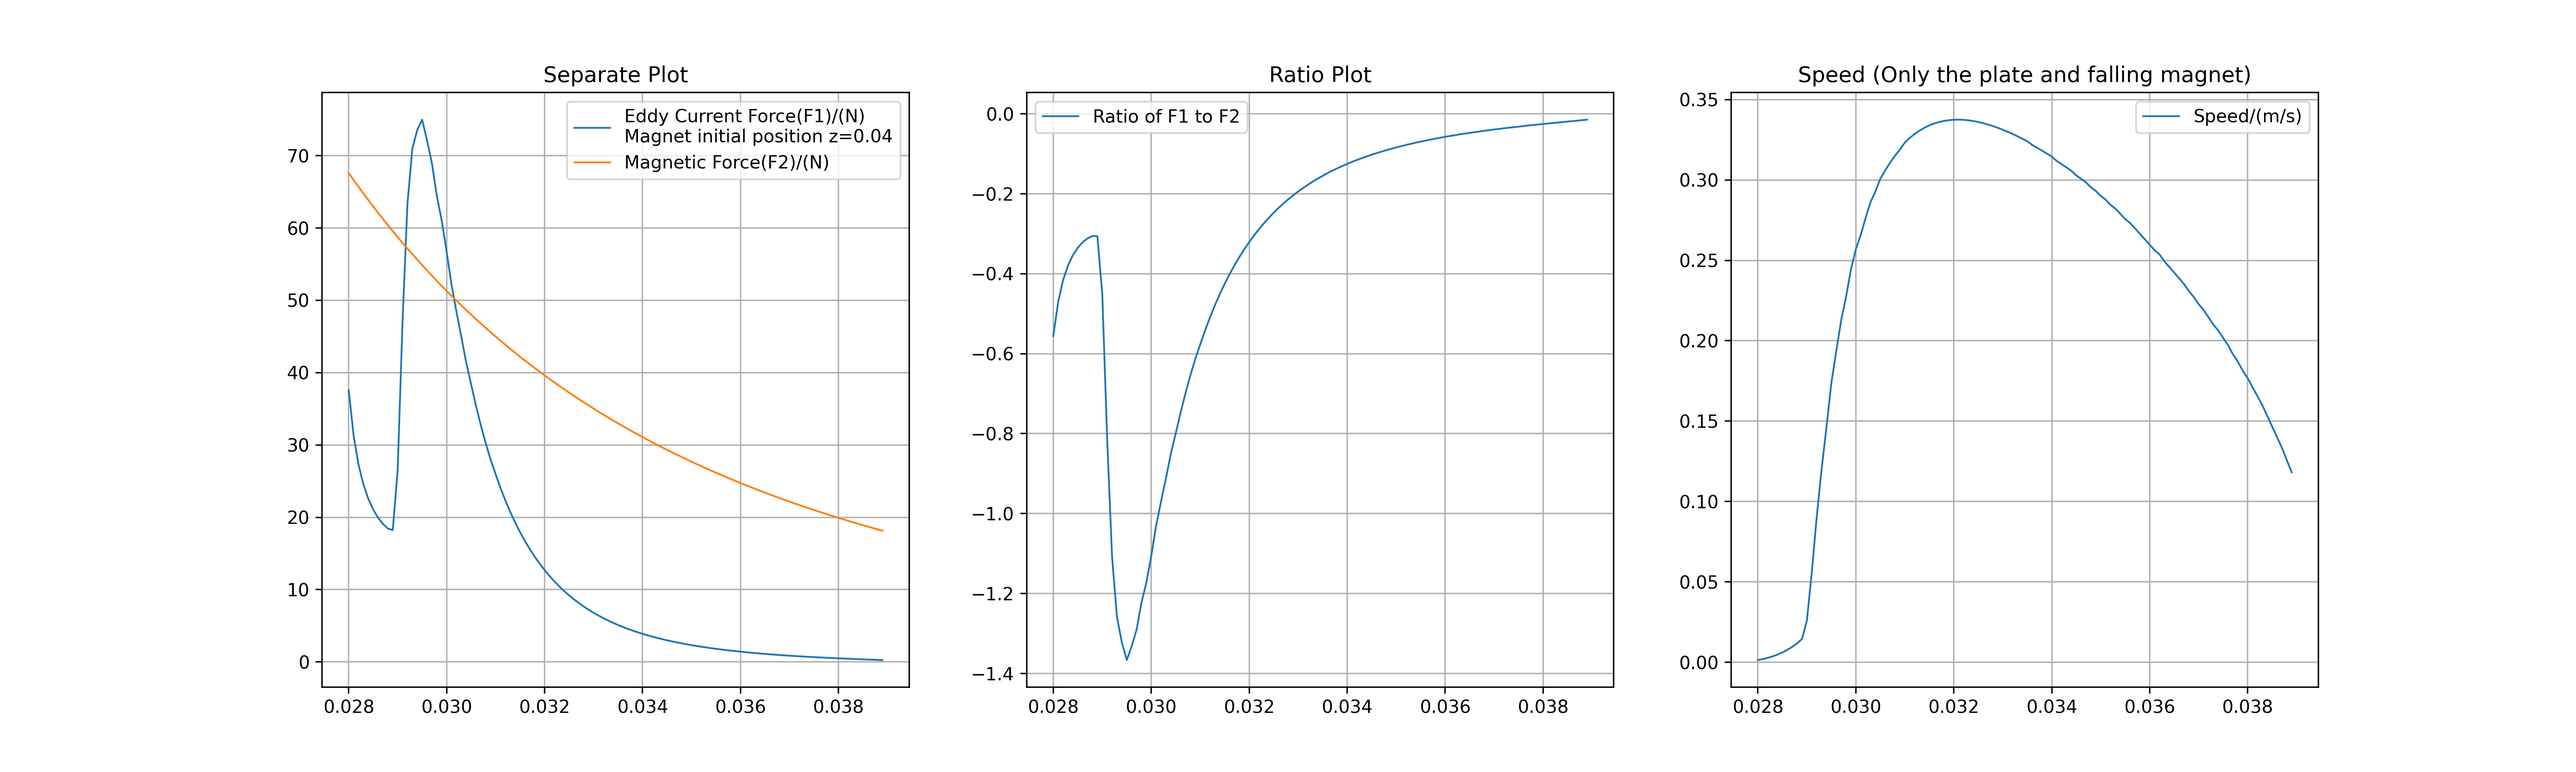
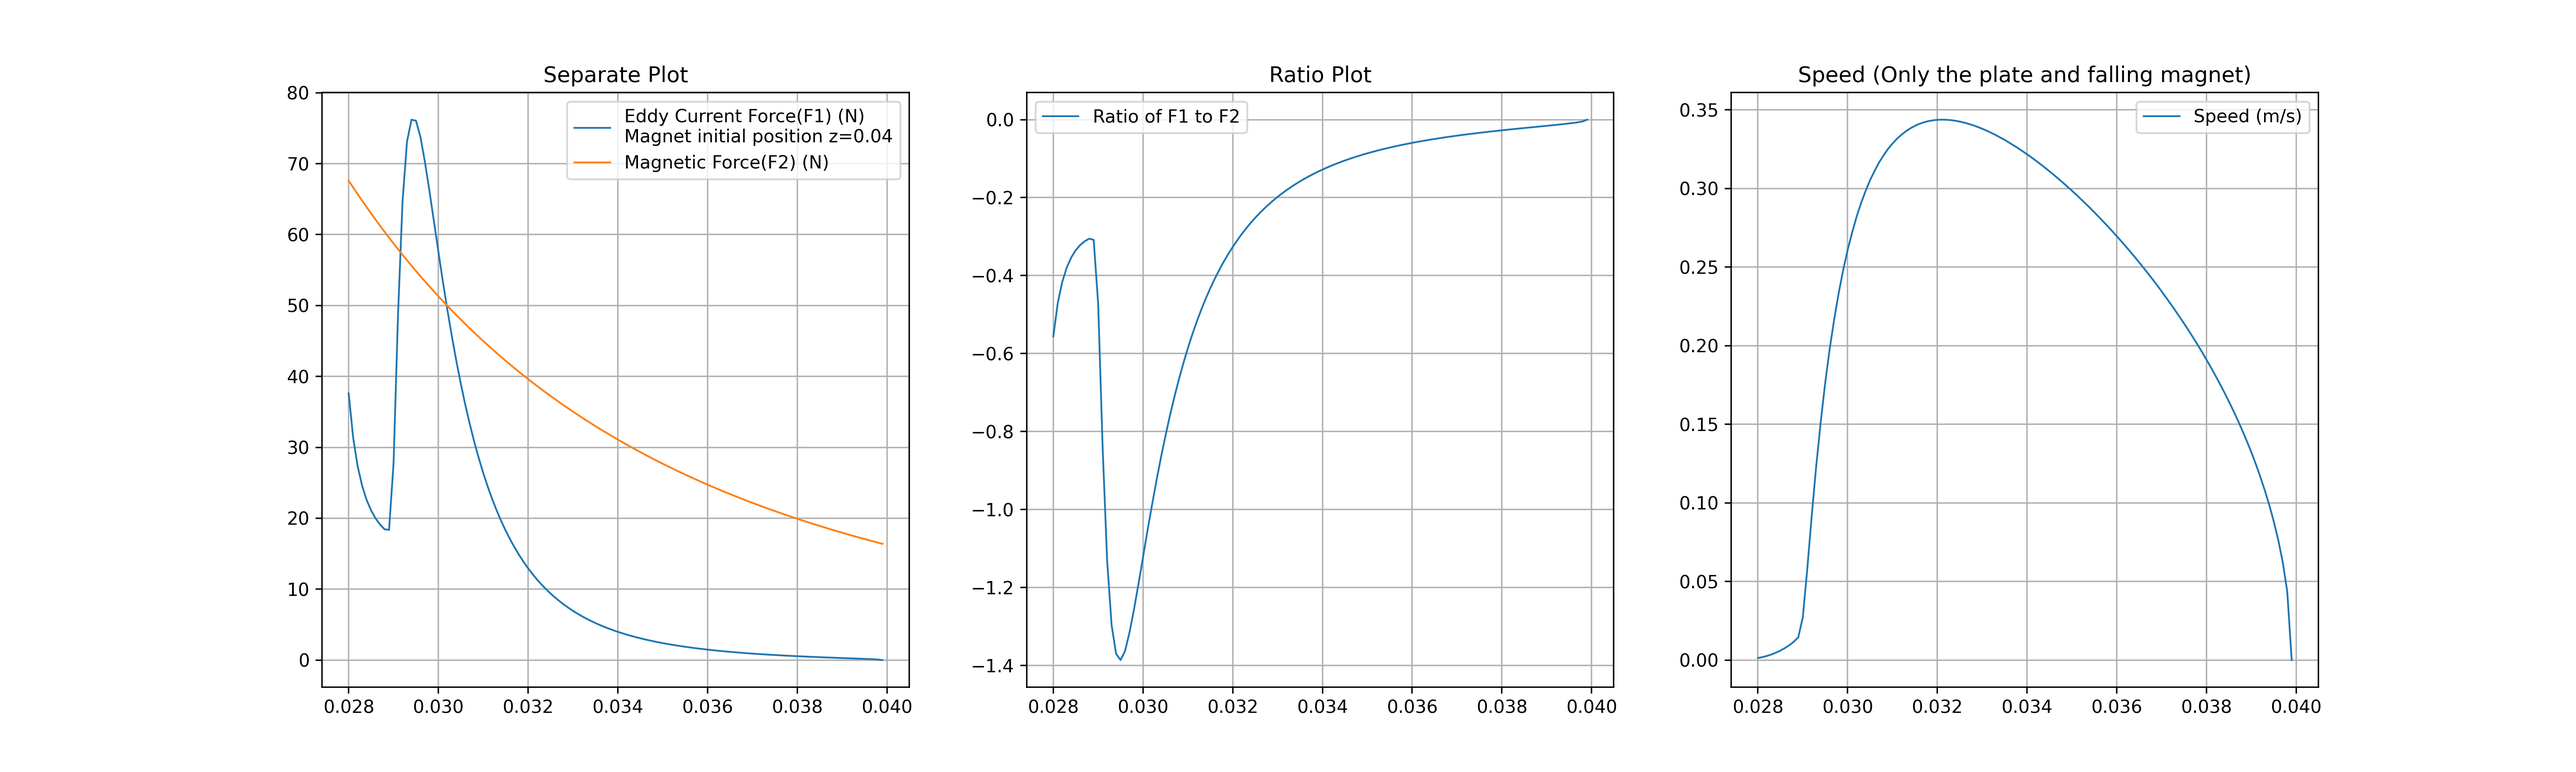
获得了正确的无下方磁铁的受力比以及速度

diff --git a/forceComparation.py b/forceComparation.py
@@ -6,9 +6,9 @@ from matplotlib import pyplot as plt
 path = '/Users/gansz/Downloads/CUPT2024/PythonAnalysis/plots/force_comparation.png'
 
 # Initializations
-dt = 0.0001
+dt = 0.00001
 
-t_max = 2
+t_max = 0.6
 
 steps = int(t_max / dt)
 
@@ -19,20 +19,20 @@ z2 = [0.0] * steps
 z1_z = dict()
 
 # Initial conditions
-z[0] = 0.04
+z[0] = 0.0403
 
 # Calculation
 for i in range(steps - 1):
     if z[i] < H or z[i] > 1:
-        steps = i
-        print(f"final {i}, {z[i]}")
+        print(f"final {i}, {z[i]}, {z[i-1]}, {z1[i]}, {z1[i-1]}")
         break
     z1_z[z[i]] = z1[i]
     z2[i] = z1[i] * F(z[i]) - g
     z1[i + 1] = z1[i] + z2[i] * dt
     z[i + 1] = z[i] + z1[i] * dt
 
-interval: int = 110
+
+interval: int = 120
 
 z0 = [0.0] * interval
 F_1 = [0.0] * interval
@@ -60,9 +60,9 @@ zh = np.array(z0)
 plt.figure(figsize=(20, 6))
 
 plt.subplot(1, 3, 1)
-plt.plot(zh, f1, lw='1', label='Eddy Current Force(F1)/(N)\nMagnet initial position z=0.04')
+plt.plot(zh, f1, lw='1', label='Eddy Current Force(F1) (N)\nMagnet initial position z=0.04')
 # plt.plot(zh, f1_raw, lw='1', label='Eddy Current Force(F1_raw)/(N)')
-plt.plot(zh, f2, lw='1', label='Magnetic Force(F2)/(N)')
+plt.plot(zh, f2, lw='1', label='Magnetic Force(F2) (N)')
 plt.title('Separate Plot')
 plt.grid()
 plt.legend()
@@ -74,7 +74,7 @@ plt.grid()
 plt.legend()
 
 plt.subplot(1, 3, 3)
-plt.plot(zh, spd, lw='1', label='Speed/(m/s)')
+plt.plot(zh, spd, lw='1', label='Speed (m/s)')
 plt.title('Speed (Only the plate and falling magnet)')
 plt.grid()
 plt.legend()

diff --git a/kit/functions.py b/kit/functions.py
@@ -69,14 +69,14 @@ def __plot():
 
 
 def optimized_read(d:dict, key):
-    key_value = -1
+    key_value = -2
     count = 0
     for i in d:
         count += 1
         if (abs((i-key)/i) < 0.01):
             key_value = d[i]
             break
-    if key_value == -1:
+    if key_value == -2:
         print(count,key_value)
     return key_value
 
